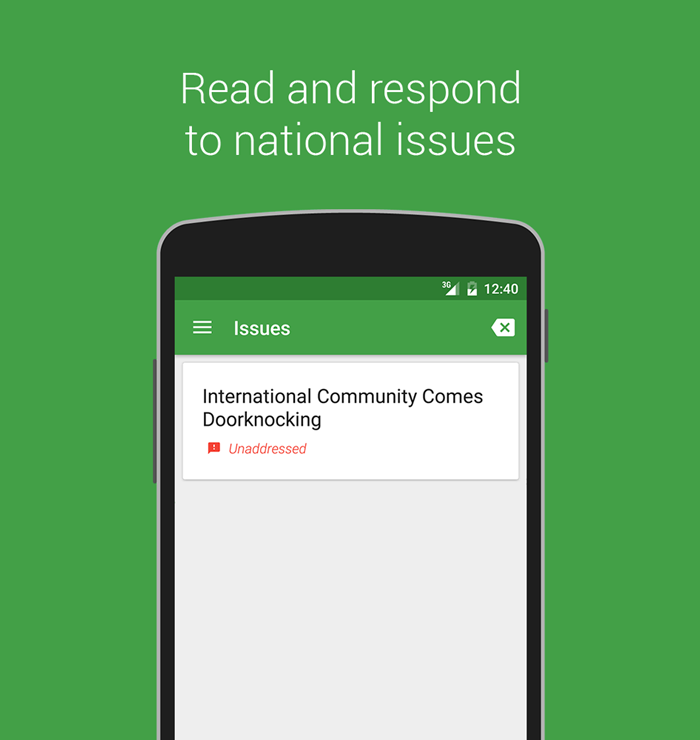
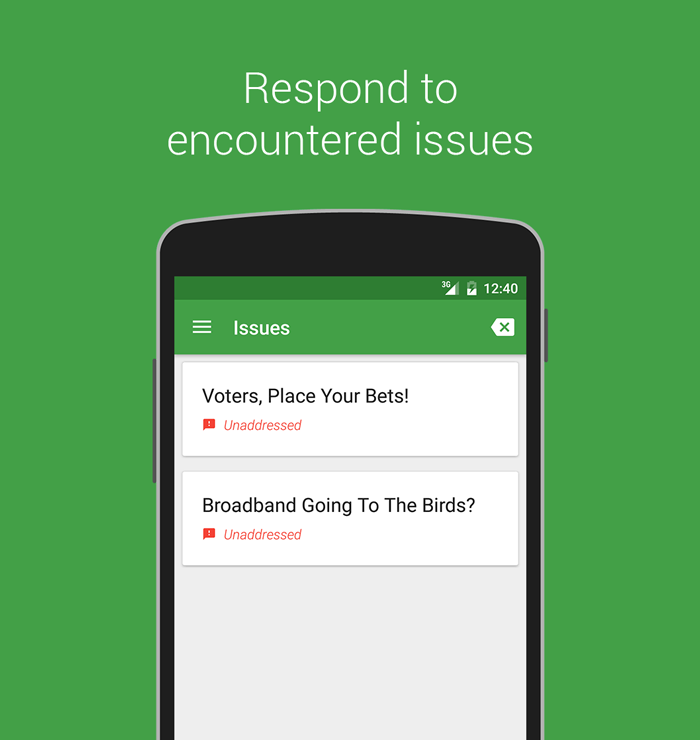
Update Stately info

diff --git a/stately.md b/stately.md
@@ -21,7 +21,7 @@ sequence: -14
     <div class="col-sm-8">
         <p class="featuretext-lg"><strong class="green-emph">Stately</strong> is an unofficial NationStates app for Android.</p>
 
-        <p class="featuretext-md">Quickly get stats about your nation, respond to daily issues, view your region's factbook and message board, and observe the proceedings and resolutions of the World Assembly.</p>
+        <p class="featuretext-md">Quickly get stats about your nation, respond to daily issues, browse regional factbooks, post on your own region's RMB, and vote on World Assembly proceedings.</p>
     </div>
 
     <div class="col-sm-4">
@@ -37,6 +37,9 @@ sequence: -14
             </li>
             <li>
                 <img src="/images/projects/stately/stately-4.png"/>
+            </li>
+            <li>
+                <img src="/images/projects/stately/stately-5.png"/>
             </li>
         </ul>
     </div>
@@ -66,6 +69,8 @@ sequence: -14
     <li><a href="https://github.com/jpardogo/PagerSlidingTabStrip">PagerSlidingTabStrip</a></li>
     <li><a href="http://www.ocpsoft.org/prettytime/">PrettyTime</a></li>
     <li><a href="https://github.com/siyamed/android-shape-imageview">Shape Image View</a></li>
+    <li><a href="https://github.com/satyan/sugar">SugarORM</a></li>
+    <li><a href="https://github.com/OrangeGangsters/SwipyRefreshLayout">SwipyRefreshLayout</a></li>
     <li><a href="https://github.com/nostra13/Android-Universal-Image-Loader">Universal Image Loader</a></li>
 </ul>
 
